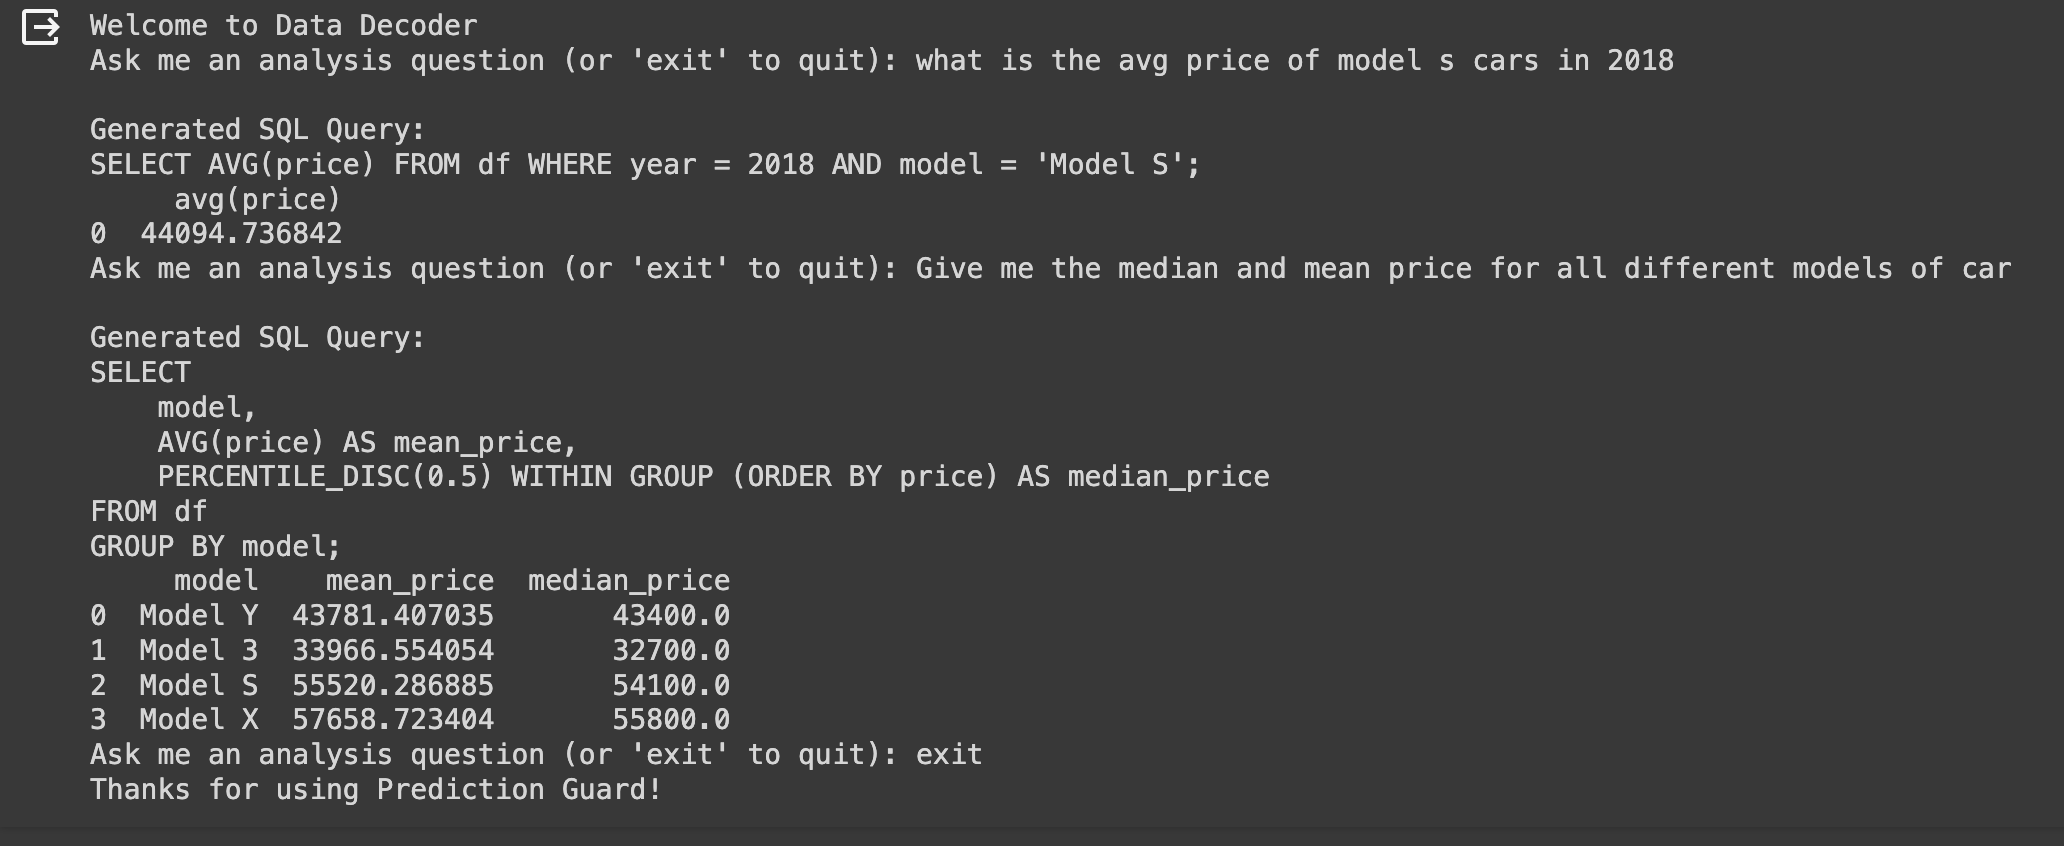
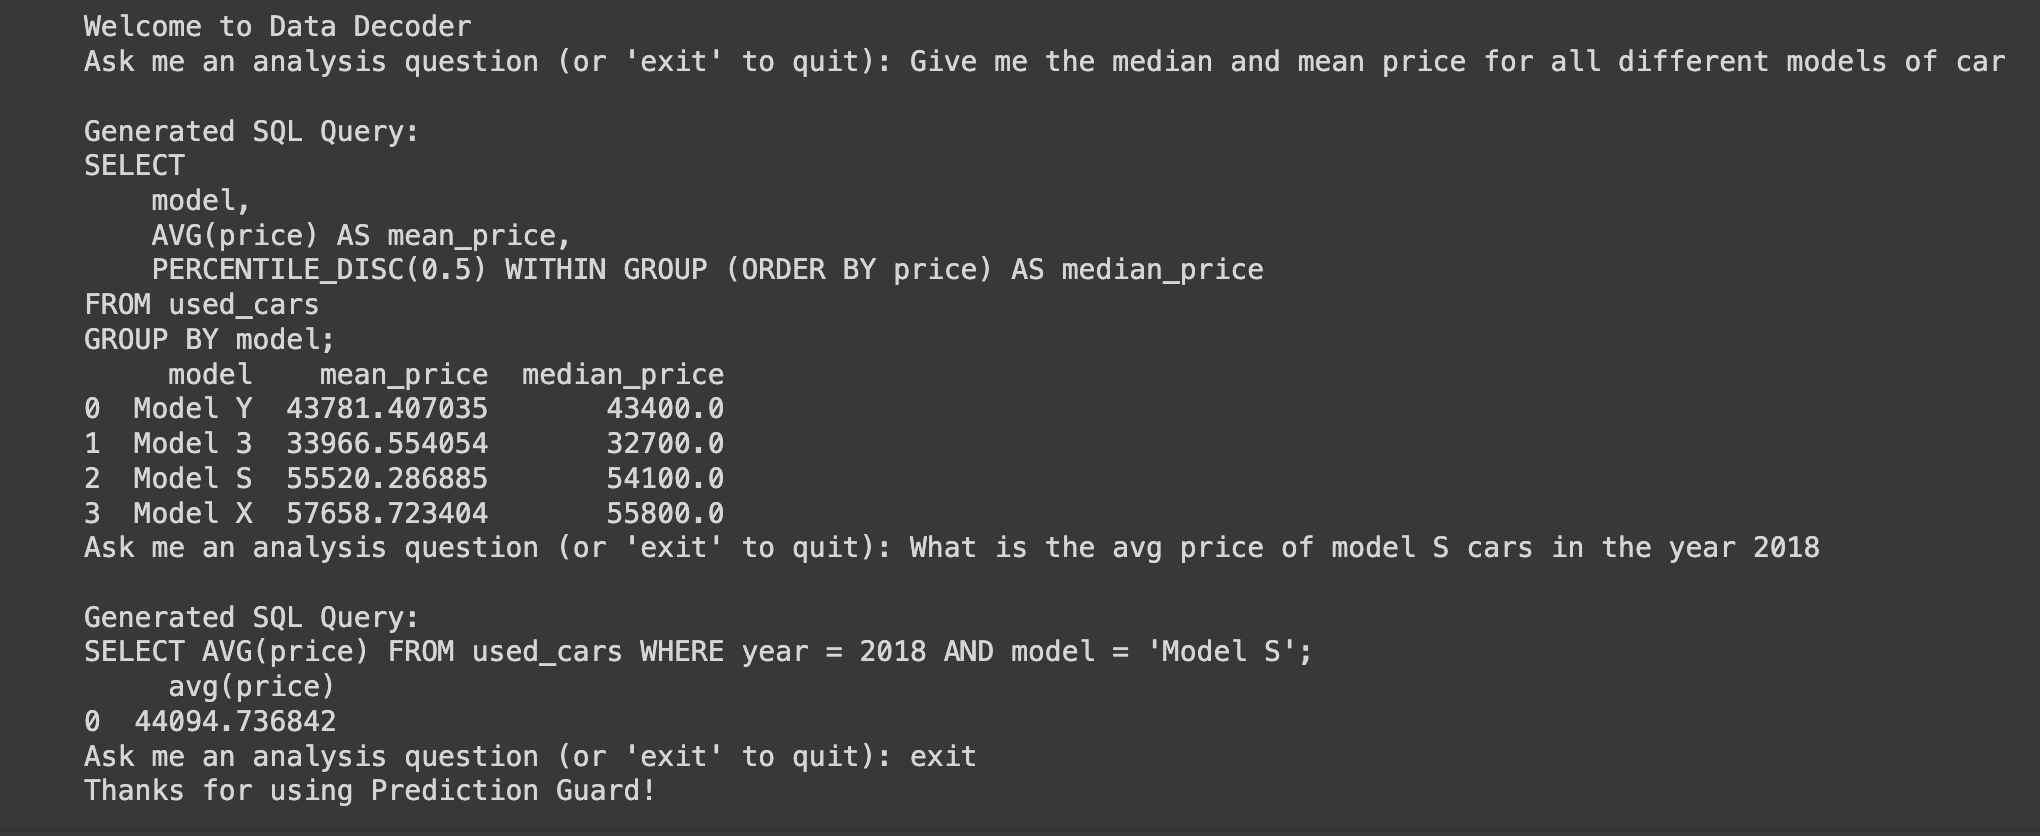
prompt template improved, image changed

diff --git a/pages/guides/ada.md b/pages/guides/ada.md
@@ -32,10 +32,29 @@ First we load a sample Tesla dataset with Pandas:
 ```python
 import pandas as pd
 
-df = pd.read_csv("tesla-data.csv") 
-df.to_markdown(index=False)
+used_cars = pd.read_csv("tesla-data.csv") 
+used_cars.to_markdown(index=False)
 ```
-We can format this table data and provide an analytical question for the LLM to answer:
+Next step is to have a solid data dictionary ready which mentions the table name, column name and description and a snapshot of the table to have the model better understand your data.
+
+```python
+table_info={
+    "table_name":"used_cars",
+    "columns":
+      {'model': 'Car model',
+      'year': 'Manufacturing year of the car',
+      'odometer': 'Mileage of the car in miles',
+      'price': 'Price of the car in dollars',
+      'location': 'Location where the car is located',
+      'driveTrain': 'Type of drive train (e.g., All-Wheel Drive)',
+      'DAS': 'Driver Assistance System details',
+      'accident_history': 'History of accidents (e.g., Previously Repaired)',
+      'paintJob': 'Color and type of paint job',
+      'wheels': 'Type and size of the car wheels',
+      },
+    "snapshot":used_cars.value_counts()
+}
+```
 
 ## Query Generation with LLMs
 
@@ -45,7 +64,7 @@ We'll use the LangChain library to simplify prompting our LLM. Define a prompt t
 from langchain import PromptTemplate
 
 template = """### Instruction: 
-Generate a full SQL query that answers the question in the below input using the following schema information about available database tables named "df". Always start your query with a SELECT statement and end with a semicolon.
+Generate a full SQL query that answers the question in the below input using the following schema information about available database tables. Always start your query with a SELECT statement and end with a semicolon.
 
 {table_info}
 
@@ -59,11 +78,6 @@ prompt = PromptTemplate(
     input_variables=["question", "table_info"],
 )
 ```
-
-```python
-table=df.head(2)
-```
-
 The function "generate_and_process_query" makes use of the "Nous-Hermes-Llama2-13B" language model. It constructs a prompt string by formatting the input question and a DataFrame's value counts into the prompt. The model generates a completion for the prompt, and the resulting text is processed to extract an SQL query using a regular expression. The extracted query is then returned. 
 
 ```python
@@ -72,7 +86,7 @@ def generate_and_preprocess_query(question):
       model="Nous-Hermes-Llama2-13B",
       prompt=prompt.format(
           question=question,
-          table_info=df.value_counts()
+          table_info=table_info
       ),
       max_tokens=1000,
       temperature=0.1
@@ -100,7 +114,7 @@ For demonstration purposes, we load reference data into a DuckDB instance as a p
 
 The underlying architecture supports both standalone CSV analysis as well as live connected databases through DuckDB. By generating ANSI SQL queries, the system can surface insights over existing data warehouses without disruption. This makes adopting natural language conversational analytics seamless for any organization.
 
-## Extracting and Executing the Query
+## Query
 The below code provides an interactive command line interface that allows users to ask analytical questions in plain English. It then handles the complexity of converting those natural language questions into structured SQL queries that can extract insights from data.
 
 When a user provides a question through text input, the key mechanism that drives the conversion to SQL is the generate_and_preprocess_query() function. This handles the natural language processing required to analyze the question and construct an appropriate database query.
